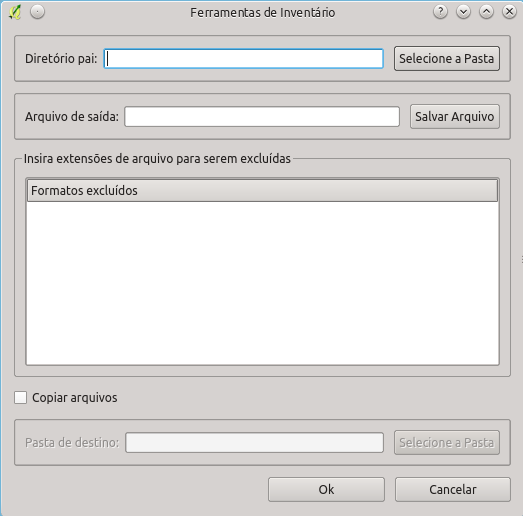
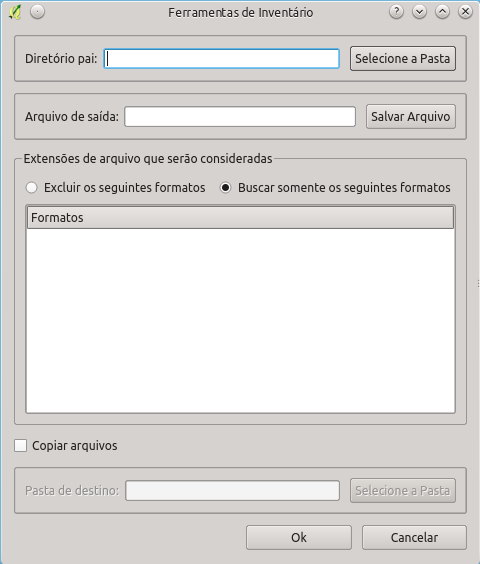
Novo help.

diff --git a/help/inventario.html b/help/inventario.html
@@ -25,18 +25,19 @@
     </p>
 
     <p align=center>
-        <img src='dsg_tools/inventario_basico.png' name='figuras1' width=411 height=353 alt='Erro ao mostrar a imagem'>
+        <img src='dsg_tools/inventario_basico.png' name='figuras1' width=480 height=564 alt='Erro ao mostrar a imagem'>
     </p>
 
     <p align="justify">
-        Inicialmente devem ser preenchidos os campos <kbd>Diretório Pai:</kbd> e <kbd>Arquivo de saída:</kbd>. Caso o usuário não deseje que todos os 
-        formatos suportados pela GDAL/OGR sejam pesquisados é possível inserir em <kbd>Insira extensões de arquivo para serem excluídas</kbd> 
-        uma lista de extensões que não serão levadas em consideração pela ferramenta. A inserção de extensões para serem excluídas é feita com o 
-        clique do botão direito do mouse no campo abaixo.
+        Inicialmente devem ser preenchidos os campos <kbd>Diretório Pai:</kbd> e <kbd>Arquivo de saída:</kbd>. Posteriormente o usuário deve 
+        indicar se deseja procurar somente alguns formatos ou buscar todos os formatos suportados pela GDAL/OGR excluindo-se os 
+        formatos indicados. É possível se fazer isso clicando em <kbd>Excluir os seguintes formatos</kbd> ou <kbd>Buscar somente os seguintes formatos</kbd>. 
+        Com essa indicação o usuário deve criar a lista de formatos que serão levados em consideração na pesquisa. A inserção de extensões 
+        que serão levadas em consideração é feita com o clique do botão direito do mouse no campo abaixo.
     </p>
 
     <p align=center>
-        <img src='dsg_tools/inventario_formatos_excluidos.png' name='figuras1' width=411 height=353 alt='Erro ao mostrar a imagem'>
+        <img src='dsg_tools/inventario_formatos_excluidos.png' name='figuras1' width=480 height=564 alt='Erro ao mostrar a imagem'>
     </p>
 
     <p align="justify">
@@ -45,24 +46,25 @@
     </p>
 
     <p align=center>
-        <img src='dsg_tools/inventario_inserir_formato.png' name='figuras1' width=411 height=353 alt='Erro ao mostrar a imagem'>
+        <img src='dsg_tools/inventario_inserir_formato.png' name='figuras1' width=480 height=564 alt='Erro ao mostrar a imagem'>
     </p>
 
     <p align="justify">
-        Após clicar em <kbd>Inserir formato</kbd> uma janela permitirá que o formato desejado seja excluído da pesquisa.
+        Após clicar em <kbd>Inserir Extensão</kbd> uma janela permitirá que o formato desejado seja inserido na lista de formatos considerados. 
+        Isso pode ser visto na figura abaixo.
     </p>
 
     <p align=center>
-        <img src='dsg_tools/inventario_inserir_formato1.png' name='figuras1' width=411 height=353 alt='Erro ao mostrar a imagem'>
+        <img src='dsg_tools/inventario_inserir_formato1.png' name='figuras1' width=480 height=564 alt='Erro ao mostrar a imagem'>
     </p>
 
     <p align="justify">
-        Caso o usuário deseje remover alguma extensão marcada para exclusão é só clicar com o botão direito no formato para que o menu 
-        <kbd>Excluir formato</kbd> apareça, restando ao usuário somente clicar no menu para excluir o formato.
+        Caso o usuário deseje remover alguma extensão marcada para ser considerada é só clicar com o botão direito no formato para que o menu 
+        <kbd>Remover Extensão</kbd> apareça, restando ao usuário somente clicar no menu para excluir o formato.
     </p>
 
     <p align=center>
-        <img src='dsg_tools/inventario_excluir_formato.png' name='figuras1' width=411 height=353 alt='Erro ao mostrar a imagem'>
+        <img src='dsg_tools/inventario_excluir_formato.png' name='figuras1' width=480 height=564 alt='Erro ao mostrar a imagem'>
     </p>
 
     <p align="justify">
